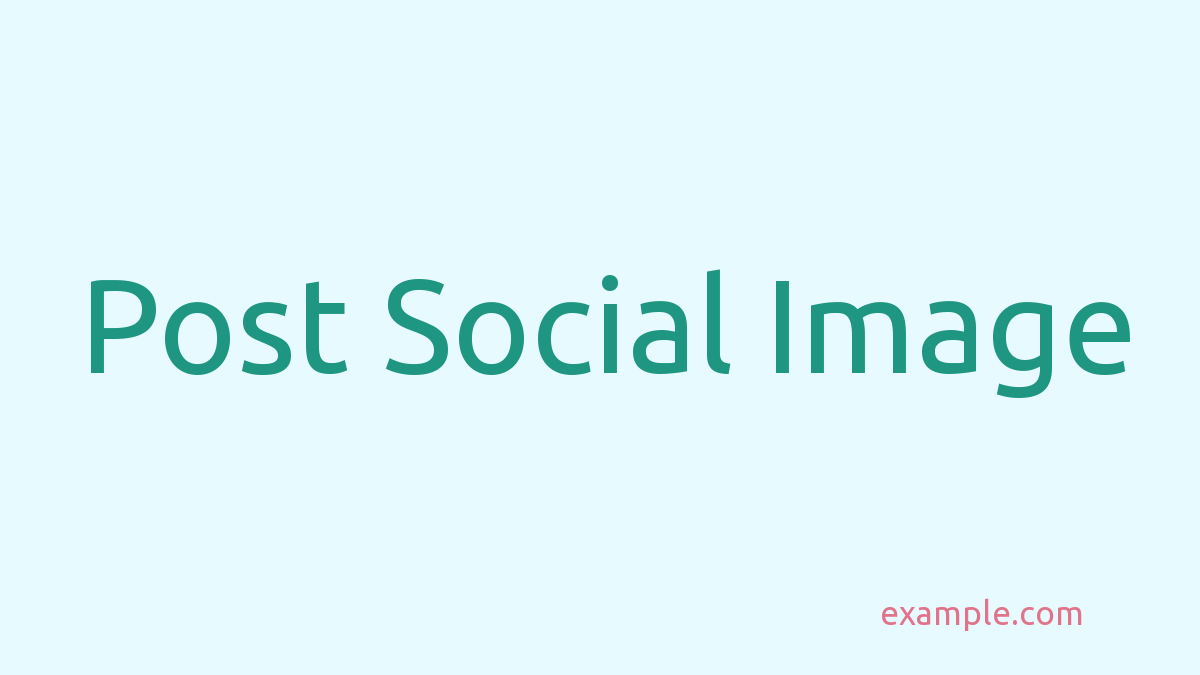
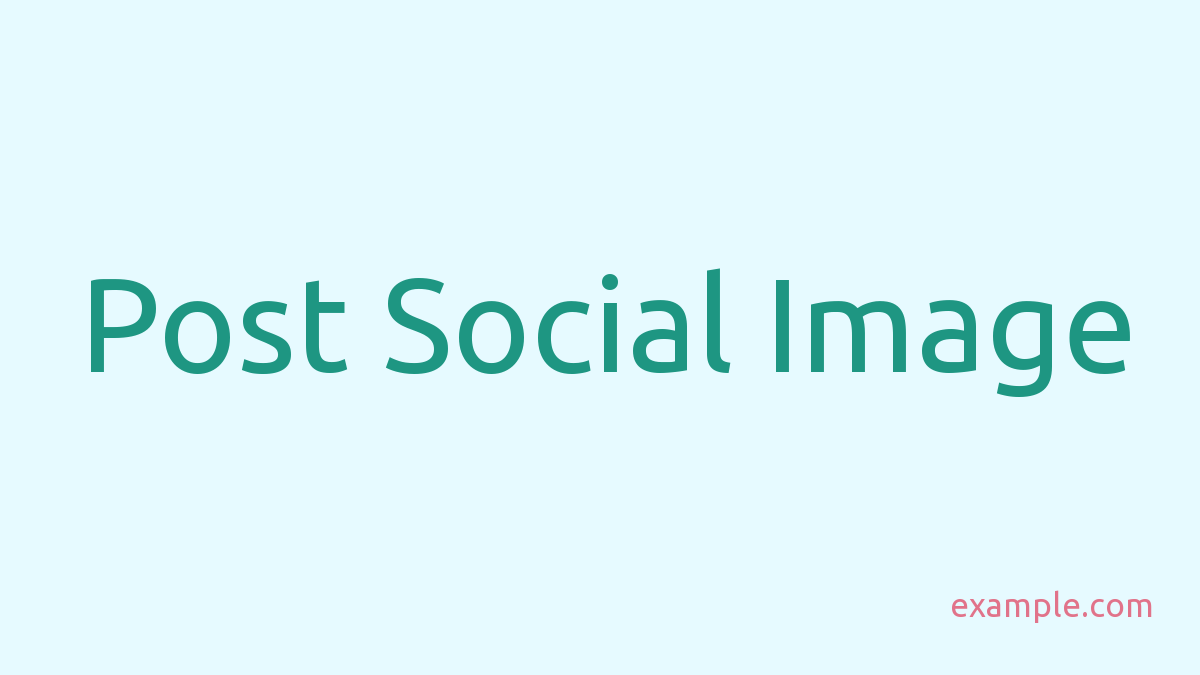
Add new create logic

diff --git a/src/Image.php b/src/Image.php
@@ -2,13 +2,14 @@
 
 namespace Crazko\PostSocialImage;
 
-use Exception;
 use Nette\Utils\FileSystem;
 use Nette\Utils\Image as NetteImage;
 use Nette\Utils\Strings;
 
 class Image
 {
+    const WORD_WRAP = 20;
+
     /**
      * @var int
      */
@@ -22,54 +23,40 @@ class Image
     /**
      * @var string
      */
+    private $background;
+
+    /**
+     * @var string
+     */
     private $fontPath;
+
+    /**
+     * @var Text[]
+     */
+    private $texts = [];
 
     /**
      * @var NetteImage
      */
     private $image;
 
-    public function __construct(int $width, string $background, string $font)
+    /**
+     * @var int
+     */
+    private $padding;
+
+    public function __construct(int $width, string $background, string $font, int $padding)
     {
         $this->width = $width;
-        $this->height = (int) floor($width / 16 * 9);
+        $this->height = $this->heightFromWidth($width);
         $this->background = $background;
         $this->fontPath = sprintf('%s/%s', __DIR__, $font);
+        $this->padding = $padding;
     }
 
-    public function text(string $text, int $size, string $color, string $position): void
+    public function text(string $text, int $size, string $color, ?int $position = null): void
     {
-        // $box = $this->getTextBox($text, $size, $this->fontPath);
-
-        // var_dump($box);
-
-        // // ako vlastny argument - center, right, left bottom ...
-        // $x = ($this->width / 2) - ($box['width'] / 2);
-        // $y = ($this->height / 2) - ($box['height'] / 2) + $size;
-
-        // $this->image->ttfText(
-        //     $size,
-        //     0,
-        //     $x,
-        //     $y,
-        //     NetteImage::rgb(...$this->hexToRGB($color)),
-        //     $this->fontPath,
-        //     $text
-        // );
-    }
-
-    public function setSignature(string $text, int $size, string $color): void
-    {
-        // // Add signature
-        // $image->ttfText(
-        //     $this->configuration->originSize,
-        //     0,
-        //     $image->width - 320,
-        //     $image->height - 50,
-        //     NetteImage::rgb(...$this->configuration->signature),
-        //     $this->configuration->font,
-        //     $this->configuration->origin
-        // );
+        $this->texts[] = new Text($text, $size, $color, $position);
     }
 
     /**
@@ -88,27 +75,91 @@ class Image
         return $filepath;
     }
 
-    public function get()
+    public function get(): NetteImage
     {
-        if (! $this->image) {
-            $this->image = $this->create;
+        if ($this->image === null) {
+            $this->image = $this->create();
         }
 
         return $this->image;
     }
 
+    private function heightFromWidth(int $width): int
+    {
+        return (int) floor($width / 16 * 9);
+    }
+
+    private function widthFromHeight(int $height): int
+    {
+        return (int) floor($height / 9 * 16);
+    }
+
     private function create(): NetteImage
     {
+        // First text is a "title"
+        /** @var Text $title */
+        $title = array_shift($this->texts);
+        $wrappedTitle = wordwrap($title->text, self::WORD_WRAP);
+        $boxTitle = new Box($wrappedTitle, $title->size, $this->fontPath);
 
-        // prejst vsetky texty a upravit
+        $possibleWidth = max($this->width, ($boxTitle->width + 2 * $this->padding));
+        $possibleHeight = $this->heightFromWidth($possibleWidth);
+
+        $initialHeight = max($possibleHeight, ($boxTitle->height + 2 * $this->padding));
+        $initialWidth = $initialHeight > $possibleHeight ? $this->widthFromHeight($initialHeight) : $possibleWidth;
+
+        $titleX = (int) ($initialWidth / 2) - ($boxTitle->width / 2);
+        $titleY = (int) ($initialHeight / 2) - ($boxTitle->height / 2) + $title->size;
 
         $image = NetteImage::fromBlank(
-            $this->width,
-            $this->height,
-            NetteImage::rgb(...$this->hexToRGB($background))
+            $initialWidth,
+            $initialHeight,
+            NetteImage::rgb(...$this->hexToRGB($this->background))
+        );
+
+        $image->ttfText(
+            $title->size,
+            0,
+            $titleX,
+            $titleY,
+            NetteImage::rgb(...$this->hexToRGB($title->color)),
+            $this->fontPath,
+            $wrappedTitle
         );
 
         $image->resize($this->width, null);
+
+        foreach ($this->texts as $text) {
+            $boxText = new Box($text->text, $text->size, $this->fontPath);
+            $x = 0;
+            $y = 0;
+
+            if ($text->position & Position::TOP) {
+                $y = $this->padding + $text->size;
+            }
+
+            if ($text->position & Position::BOTTOM) {
+                $y = $this->height - $boxText->height - $this->padding + $text->size;
+            }
+
+            if ($text->position & Position::LEFT) {
+                $x = $this->padding;
+            }
+
+            if ($text->position & Position::RIGHT) {
+                $x = $this->width - $boxText->width - $this->padding;
+            }
+
+            $image->ttfText(
+                $text->size,
+                0,
+                $x,
+                $y,
+                NetteImage::rgb(...$this->hexToRGB($text->color)),
+                $this->fontPath,
+                $text->text
+            );
+        }
 
         return $image;
     }
@@ -121,32 +172,13 @@ class Image
         preg_match('/^#?([a-fA-F\d]{2})([a-fA-F\d]{2})([a-fA-F\d]{2})$/', $hex, $parts);
 
         if (! $parts) {
-            throw new Exception('bad color provided' . $hex);
+            throw new \InvalidArgumentException('Provided color is not in HEX format: ' . $hex);
         }
 
         return [
             (int) hexdec($parts[1]),
             (int) hexdec($parts[2]),
             (int) hexdec($parts[3]),
-        ];
-    }
-
-    /**
-     * @return int[]
-     */
-    private function getTextBox(string $text, int $size, string $font): array
-    {
-        $wrappedText = wordwrap($text, 30);
-
-        $box = imagettfbbox($size, 0, $font, $wrappedText);
-        $minX = min($box[0], $box[2], $box[4], $box[6]);
-        $maxX = max($box[0], $box[2], $box[4], $box[6]);
-        $minY = min($box[1], $box[3], $box[5], $box[7]);
-        $maxY = max($box[1], $box[3], $box[5], $box[7]);
-
-        return [
-            'width' => (int) ($maxX - $minX),
-            'height' => (int) ($maxY - $minY),
         ];
     }
 }

diff --git a/src/Command/CreateCommand.php b/src/Command/CreateCommand.php
@@ -2,7 +2,8 @@
 
 namespace Crazko\PostSocialImage\Command;
 
-use Crazko\PostSocialImage\ImageCreator;
+use Crazko\PostSocialImage\Image;
+use Crazko\PostSocialImage\Position;
 use Symfony\Component\Console\Command\Command;
 use Symfony\Component\Console\Input\InputArgument;
 use Symfony\Component\Console\Input\InputInterface;
@@ -24,7 +25,7 @@ class CreateCommand extends Command
             new InputArgument('destination', InputArgument::REQUIRED, 'Where to save the image?'),
             new InputArgument('title', InputArgument::REQUIRED, 'Title of the post the image should be generated for.'),
             new InputOption('width', 'w', InputOption::VALUE_REQUIRED, 'The width of the image in px. Height is calculated proportionaly 16:9.', 1200),
-            new InputOption('padding', 'p', InputOption::VALUE_REQUIRED, 'The padding of the image title in px.', 100),
+            new InputOption('padding', 'p', InputOption::VALUE_REQUIRED, 'The padding of the image in px.', 50),
             new InputOption('size', 's', InputOption::VALUE_REQUIRED, 'The size of the image title in px.', 100),
 
             new InputOption('colorBackground', 'b', InputOption::VALUE_REQUIRED, 'HEX color of the title.', '#ffffff'),
@@ -47,7 +48,7 @@ class CreateCommand extends Command
         }
 
         $width = $input->getOption('width');
-        // $padding = $input->getOption('padding');
+        $padding = $input->getOption('padding');
         $font = '/ubuntu.ttf';
         $titleSize = $input->getOption('size');
         $origin = $input->getOption('origin');
@@ -56,12 +57,11 @@ class CreateCommand extends Command
         $colorTitle = $input->getOption('colorForeground');
         $colorOrigin = $input->getOption('colorOrigin');
 
-        $imageCreator = new ImageCreator();
-        $image = $imageCreator->create($width, $colorBackground, $font);
-        $image->text($title, $titleSize, $colorTitle, 'center');
+        $image = new Image($width, $colorBackground, $font, $padding);
+        $image->text($title, $titleSize, $colorTitle);
 
         if ($origin) {
-            $image->text($origin, $originSize, $colorOrigin, 'bottomRight');
+            $image->text($origin, $originSize, $colorOrigin, Position::BOTTOM | Position::RIGHT);
         }
 
         $path = $image->save($title, $destination);

diff --git a/src/Text.php b/src/Text.php
@@ -1,0 +1,52 @@
+<?php declare(strict_types=1);
+
+namespace Crazko\PostSocialImage;
+
+/**
+ * @property-read string $text
+ * @property-read int $size
+ * @property-read string $color
+ * @property-read int|null $position
+ */
+class Text
+{
+    /**
+     * @var string
+     */
+    private $text;
+
+    /**
+     * @var int
+     */
+    private $size;
+
+    /**
+     * @var string
+     */
+    private $color;
+
+    /**
+     * @var int|null
+     */
+    private $position;
+
+    public function __construct(string $text, int $size, string $color, ?int $position = null)
+    {
+        $this->text = $text;
+        $this->size = $size;
+        $this->color = $color;
+        $this->position = $position;
+    }
+
+    /**
+     * @return mixed
+     */
+    public function __get(string $param)
+    {
+        if (property_exists($this, $param)) {
+            return $this->{$param};
+        }
+
+        throw new \Exception("Trying to access non-existing property: ${param}");
+    }
+}

diff --git a/src/Box.php b/src/Box.php
@@ -1,0 +1,37 @@
+<?php declare(strict_types=1);
+
+namespace Crazko\PostSocialImage;
+
+/**
+ * @property-read int $width
+ * @property-read int $height
+ */
+class Box
+{
+    /**
+     * @var int
+     */
+    private $width;
+
+    /**
+     * @var int
+     */
+    private $height;
+
+    public function __construct(string $text, int $size, string $font)
+    {
+        $box = imagettfbbox($size, 0, $font, $text);
+
+        $this->width = (int) $box[2] - $box[0];
+        $this->height = (int) $box[1] - $box[7];
+    }
+
+    public function __get(string $param): int
+    {
+        if (property_exists($this, $param)) {
+            return $this->{$param};
+        }
+
+        throw new \Exception("Trying to access non-existing property: ${param}");
+    }
+}

diff --git a/src/Position.php b/src/Position.php
@@ -1,0 +1,14 @@
+<?php declare(strict_types=1);
+
+namespace Crazko\PostSocialImage;
+
+class Position
+{
+    const TOP = 1;
+
+    const BOTTOM = 2;
+
+    const LEFT = 4;
+
+    const RIGHT = 8;
+}

diff --git a/README.md b/README.md
@@ -29,12 +29,12 @@ You can also [define a new command](https://getcomposer.org/doc/articles/scripts
 ```json
 {
     "scripts": {
-        "image": "vendor/bin/create-image --ansi -b#E6FAFF -f#1E9682 -c#E1738A -o example.com ./assets/img"
+        "image": "vendor/bin/create-image --ansi -b E6FAFF -f 1E9682 -c E1738A -o example.com ./assets/img"
     },
 }
 ```
 
-and use it to create new images repeatedly:
+and use it to create new images more easily:
 
 ```
 composer image "My amazing post"
